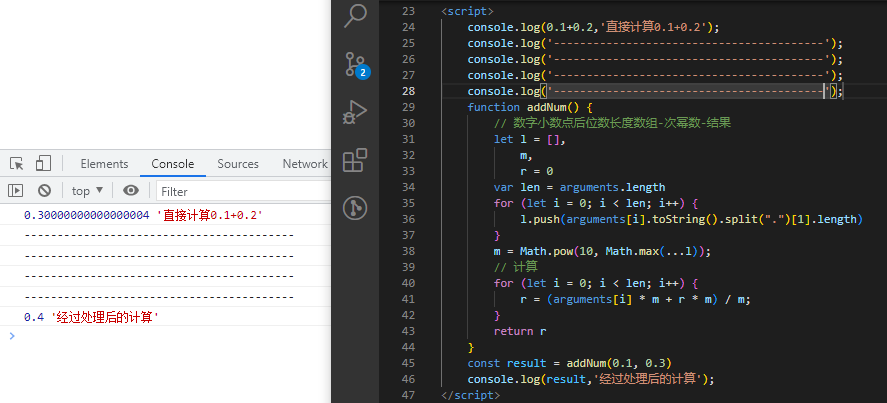
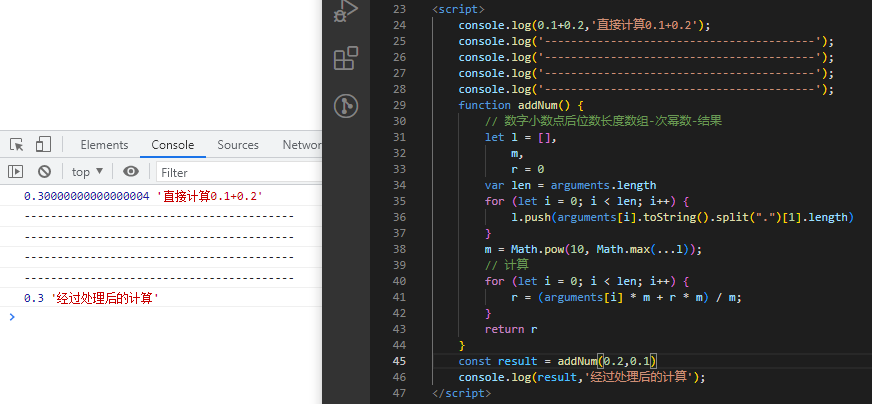
Update articles

diff --git a/akai-blog/docs/pages/study/javascript/JS解决浮点数精度问题.md b/akai-blog/docs/pages/study/javascript/JS解决浮点数精度问题.md
@@ -15,6 +15,7 @@
 1. 在计算机进制的影响下，我们在使用`0.1+0.2`会输出`0.30000000000000004`；
    1. 数学坤本功不错的同学都知道`0.1+0.2=0.3`；为啥等于0.3我还是解释一下，因为`0.3-0.2=0.1`；
 2. 但是我们在处理业务的时候肯定必须得要`0.2+0.1=0.3`；那遇到这种类似情况该怎么处理呢？小许给出了答案
+   1. 多个浮点数也可以传递，一样没问题，是不是很牛13?
    
    
 ```javascript
@@ -34,9 +35,9 @@
         }
         return r
     }
-    const result = addNum(0.1, 0.3)
+    const result = addNum(0.1, 0.2)
     console.log(result);
-
+    // 输出 0.3
 ```
 
 
